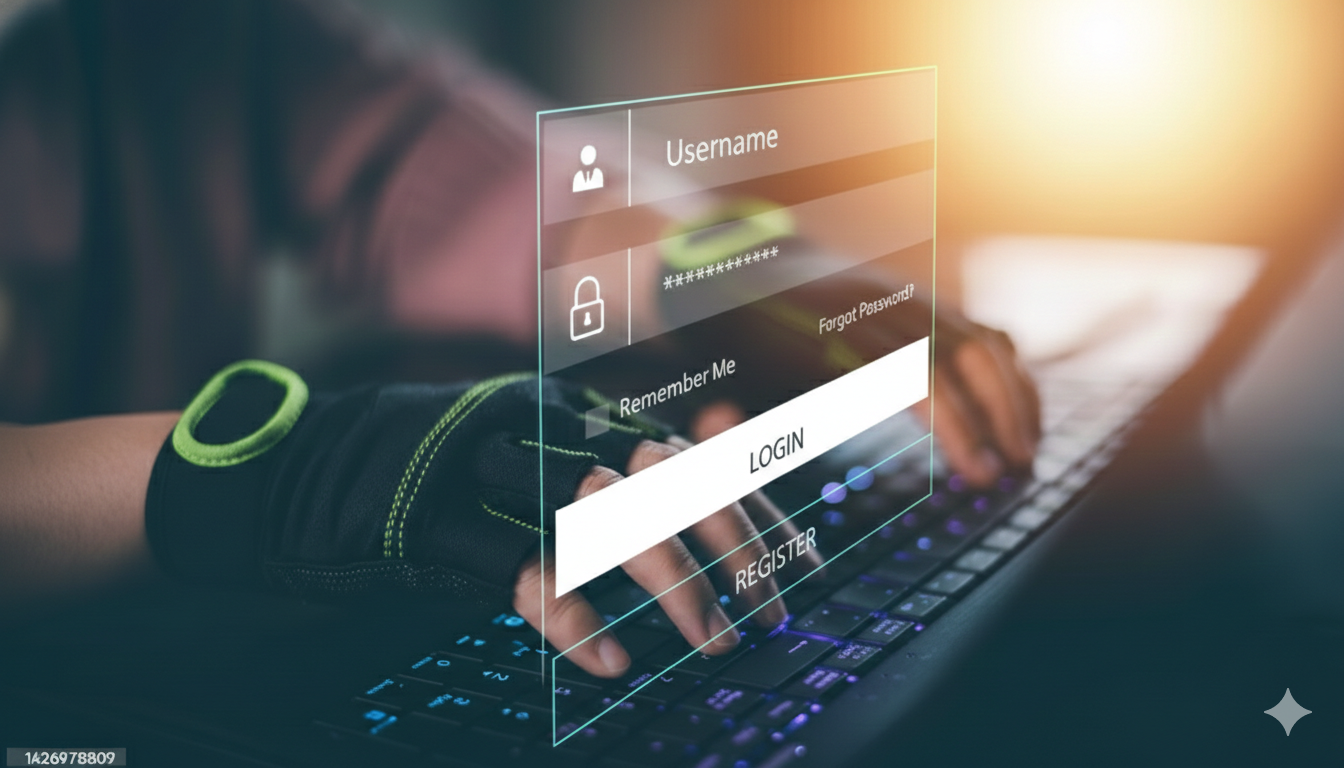
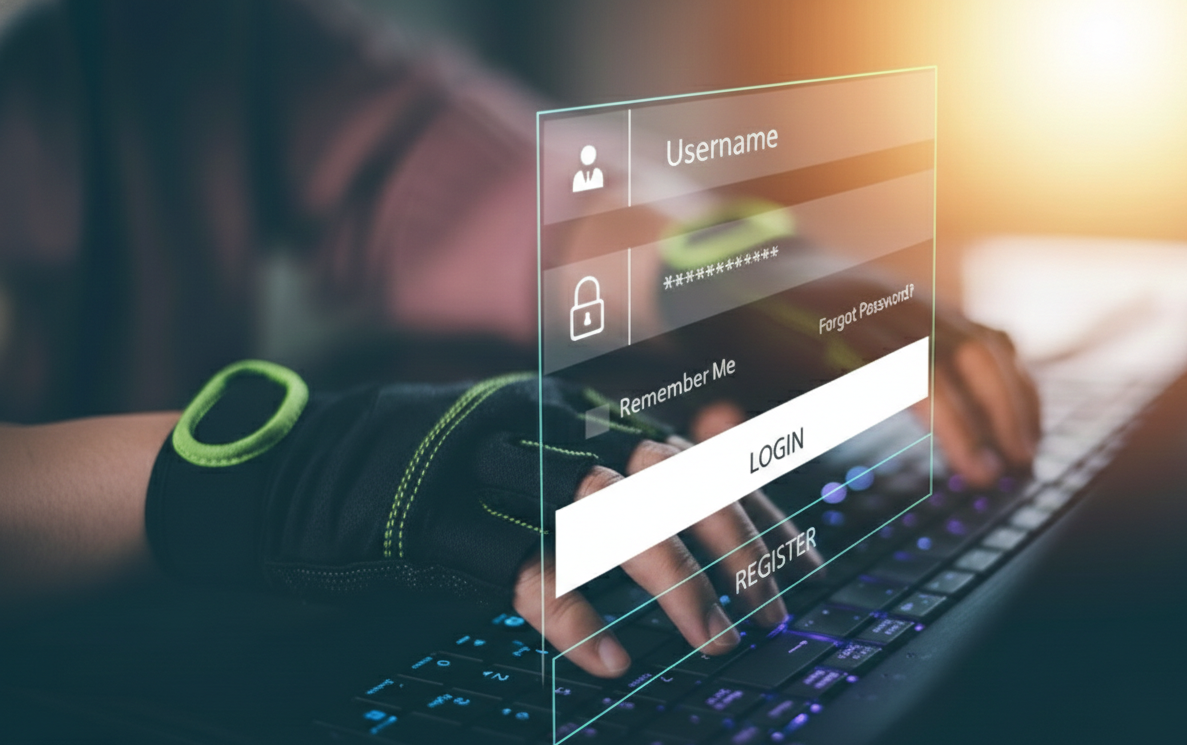
La imagen ocupa el 100% de su contenedor y no se desborda, se acomodan los anchos de las columnas dandole mas ancho al formulario

diff --git a/pages/prueba.html b/pages/prueba.html
@@ -1,93 +1,137 @@
-<!DOCTYPE html>
+<!doctype html>
 <html lang="es" data-bs-theme="dark">
-<head>
-    <meta charset="UTF-8">
-    <meta name="viewport" content="width=device-width, initial-scale=1.0">
+  <head>
+    <meta charset="UTF-8" />
+    <meta name="viewport" content="width=device-width, initial-scale=1.0" />
     <title>Login - CriptoApp</title>
-    <link href="https://cdn.jsdelivr.net/npm/bootstrap@5.3.3/dist/css/bootstrap.min.css" rel="stylesheet">
-    <link rel="stylesheet" href="https://cdn.jsdelivr.net/npm/bootstrap-icons@1.11.3/font/bootstrap-icons.min.css">
-    <link href="https://fonts.googleapis.com/css2?family=Alfa+Slab+One&display=swap" rel="stylesheet">
-    <link rel="stylesheet" href="../css/style.css">
+    <link
+      href="https://cdn.jsdelivr.net/npm/bootstrap@5.3.3/dist/css/bootstrap.min.css"
+      rel="stylesheet"
+    />
+    <link
+      rel="stylesheet"
+      href="https://cdn.jsdelivr.net/npm/bootstrap-icons@1.11.3/font/bootstrap-icons.min.css"
+    />
+    <link
+      href="https://fonts.googleapis.com/css2?family=Alfa+Slab+One&display=swap"
+      rel="stylesheet"
+    />
+    <link rel="stylesheet" href="../css/style.css" />
     <style>
-        .login-container {
-            min-height: 100vh;
-        }
-        .login-image {
-            background-image: url('https://images.pexels.com/photos/6770610/pexels-photo-6770610.jpeg');
-            background-size: cover;
-            background-position: center;
-            min-height: 300px;
-        }
-        .fuente-logo {
-            font-family: 'Alfa Slab One', cursive;
-        }
+      .login-container {
+        min-height: 100vh;
+      }
+      .login-image {
+        background-image: url("https://images.pexels.com/photos/6770610/pexels-photo-6770610.jpeg");
+        background-size: cover;
+        background-position: center;
+        min-height: 300px;
+      }
+      .fuente-logo {
+        font-family: "Alfa Slab One", cursive;
+      }
     </style>
-</head>
-<body>
-
+  </head>
+  <body>
     <main class="container-fluid p-0">
-        <div class="row g-0 login-container">
-            <div class="col-md-6 d-none d-md-block login-image">
-                </div>
-
-            <div class="col-md-6 d-flex align-items-center bg-dark">
-                <div class="container p-5">
-                    <div class="text-center mb-5">
-                        <h1 class="fuente-logo text-primary">CriptoApp</h1>
-                        <p class="text-secondary">Bienvenido de nuevo, ingresa a tu cuenta</p>
-                    </div>
-
-                    <form action="./error404.html">
-                        <div class="mb-3">
-                            <label for="email" class="form-label">Correo Electrónico</label>
-                            <div class="input-group">
-                                <span class="input-group-text"><i class="bi bi-envelope"></i></span>
-                                <input type="email" class="form-control" id="email" placeholder="correo@ejemplo.com" required>
-                            </div>
-                        </div>
-
-                        <div class="mb-3">
-                            <label for="password" class="form-label">Contraseña</label>
-                            <div class="input-group">
-                                <span class="input-group-text"><i class="bi bi-lock"></i></span>
-                                <input type="password" class="form-control" id="password" required>
-                            </div>
-                            <div class="text-end mt-2">
-                                <a href="./error404.html" class="text-decoration-none small text-primary">¿Olvidaste tu contraseña?</a>
-                            </div>
-                        </div>
-
-                        <div class="d-grid gap-2 mt-4">
-                            <button type="submit" class="btn btn-primary btn-lg">Ingresar</button>
-                        </div>
-
-                        <div class="position-relative my-4">
-                            <hr class="text-secondary">
-                            <span class="position-absolute top-50 start-50 translate-middle bg-dark px-3 text-secondary small">O continúa con</span>
-                        </div>
-
-                        <div class="row g-2">
-                            <div class="col-6">
-                                <a href="./error404.html" class="btn btn-outline-light w-100 d-flex align-items-center justify-content-center gap-2">
-                                    <i class="bi bi-google"></i> Google
-                                </a>
-                            </div>
-                            <div class="col-6">
-                                <a href="./error404.html" class="btn btn-outline-light w-100 d-flex align-items-center justify-content-center gap-2">
-                                    <i class="bi bi-facebook"></i> Facebook
-                                </a>
-                            </div>
-                        </div>
-                    </form>
-
-                    <p class="text-center mt-5 text-secondary">
-                        ¿No tienes cuenta? <a href="./error404.html" class="text-primary text-decoration-none fw-bold">Regístrate</a>
-                    </p>
-                </div>
+      <div class="row g-0 login-container">
+        <div class="col-md-6 d-none d-md-block login-image">
+       </div>
+        <div class="col-md-6 d-flex align-items-center bg-dark">
+          <div class="container p-5">
+            <div class="text-center mb-5">
+              <h1 class="fuente-logo text-primary">XXXXXXX</h1>
+              <p class="text-secondary">
+                Bienvenido de nuevo, ingresa a tu cuenta
+              </p>
             </div>
+
+            <form action="./error404.html">
+              <div class="mb-3">
+                <label for="email" class="form-label">Correo Electrónico</label>
+                <div class="input-group">
+                  <span class="input-group-text"
+                    ><i class="bi bi-envelope"></i
+                  ></span>
+                  <input
+                    type="email"
+                    class="form-control"
+                    id="email"
+                    placeholder="correo@ejemplo.com"
+                    required
+                  />
+                </div>
+              </div>
+
+              <div class="mb-3">
+                <label for="password" class="form-label">Contraseña</label>
+                <div class="input-group">
+                  <span class="input-group-text"
+                    ><i class="bi bi-lock"></i
+                  ></span>
+                  <input
+                    type="password"
+                    class="form-control"
+                    id="password"
+                    required
+                  />
+                </div>
+                <div class="text-end mt-2">
+                  <a
+                    href="./error404.html"
+                    class="text-decoration-none small text-primary"
+                    >¿Olvidaste tu contraseña?</a
+                  >
+                </div>
+              </div>
+
+              <div class="d-grid gap-2 mt-4">
+                <button type="submit" class="btn btn-primary btn-lg">
+                  Ingresar
+                </button>
+              </div>
+
+              <div class="position-relative my-4">
+                <hr class="text-secondary" />
+                <span
+                  class="position-absolute top-50 start-50 translate-middle bg-dark px-3 text-secondary small"
+                  >O continúa con</span
+                >
+              </div>
+
+              <div class="row g-2">
+                <div class="col-6">
+                  <a
+                    href="./error404.html"
+                    class="btn btn-outline-light w-100 d-flex align-items-center justify-content-center gap-2"
+                  >
+                    <i class="bi bi-google"></i> Google
+                  </a>
+                </div>
+                <div class="col-6">
+                  <a
+                    href="./error404.html"
+                    class="btn btn-outline-light w-100 d-flex align-items-center justify-content-center gap-2"
+                  >
+                    <i class="bi bi-facebook"></i> Facebook
+                  </a>
+                </div>
+              </div>
+            </form>
+
+            <p class="text-center mt-5 text-secondary">
+              ¿No tienes cuenta?
+              <a
+                href="./error404.html"
+                class="text-primary text-decoration-none fw-bold"
+                >Regístrate</a
+              >
+            </p>
+          </div>
         </div>
+      </div>
     </main>
 
     <script src="https://cdn.jsdelivr.net/npm/bootstrap@5.3.3/dist/js/bootstrap.bundle.min.js"></script>
-</body>
+  </body>
 </html>

diff --git a/login.html b/login.html
@@ -13,10 +13,10 @@
 <body>
     <main class="container-fluid">
        <div class="row">
-        <div class="col-md-6">
-                <img src="./images/loguin.png" alt="cliente logueandose">
+        <div class="col-md-5">
+                <img src="./images/loguin.png"  class="img-fluid "  alt="cliente logueandose">
         </div>
-        <div class="col-md-6"> 
+        <div class="col-md-7"> 
                 <h1>Formulario para loguin</h1>
         </div>
         </div>
